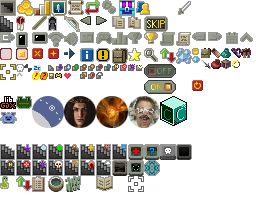
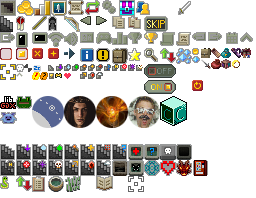
新增更多特殊图标

Changed region(s): [[0.625, 0.7879, 0.8125, 0.9091]]

diff --git a/core/src/main/java/com/shatteredpixel/shatteredpixeldungeon/journal/Notes.java b/core/src/main/java/com/shatteredpixel/shatteredpixeldungeon/journal/Notes.java
@@ -31,11 +31,13 @@ import com.shatteredpixel.shatteredpixeldungeon.actors.blobs.WaterOfOil;
 import com.shatteredpixel.shatteredpixeldungeon.actors.blobs.WaterOfTransmutation;
 import com.shatteredpixel.shatteredpixeldungeon.actors.mobs.DemonSpawner;
 import com.shatteredpixel.shatteredpixeldungeon.actors.mobs.Statue;
+import com.shatteredpixel.shatteredpixeldungeon.actors.mobs.npcs.AutoShopReBot;
 import com.shatteredpixel.shatteredpixeldungeon.actors.mobs.npcs.Blacksmith;
 import com.shatteredpixel.shatteredpixeldungeon.actors.mobs.npcs.DragonGirlBlue;
 import com.shatteredpixel.shatteredpixeldungeon.actors.mobs.npcs.Ghost;
 import com.shatteredpixel.shatteredpixeldungeon.actors.mobs.npcs.Imp;
 import com.shatteredpixel.shatteredpixeldungeon.actors.mobs.npcs.ImpShopkeeper;
+import com.shatteredpixel.shatteredpixeldungeon.actors.mobs.npcs.PinkGhost;
 import com.shatteredpixel.shatteredpixeldungeon.actors.mobs.npcs.RatKing;
 import com.shatteredpixel.shatteredpixeldungeon.actors.mobs.npcs.Shopkeeper;
 import com.shatteredpixel.shatteredpixeldungeon.actors.mobs.npcs.Wandmaker;
@@ -43,6 +45,7 @@ import com.shatteredpixel.shatteredpixeldungeon.items.Generator;
 import com.shatteredpixel.shatteredpixeldungeon.items.Item;
 import com.shatteredpixel.shatteredpixeldungeon.items.keys.Key;
 import com.shatteredpixel.shatteredpixeldungeon.levels.Level;
+import com.shatteredpixel.shatteredpixeldungeon.levels.rooms.quest.DragonCaveRoom;
 import com.shatteredpixel.shatteredpixeldungeon.levels.rooms.special.WeakFloorRoom;
 import com.shatteredpixel.shatteredpixeldungeon.messages.Messages;
 import com.shatteredpixel.shatteredpixeldungeon.scenes.PixelScene;
@@ -153,6 +156,9 @@ public class Notes {
 		REDAGRON,
 
 		SMALLB,
+		HEART,
+		FIRE_DRAGON,
+		AUTO_SHOP,
 		DEMON_SPAWNER;
 	}
 
@@ -211,6 +217,13 @@ public class Notes {
 
 				case SMALLB:
 					return Icons.MAGIC_DREAM.get();
+
+				case HEART:
+					return Icons.HEART.get();
+				case FIRE_DRAGON:
+					return Icons.FIRE_DRAGON.get();
+				case AUTO_SHOP:
+					return Icons.AUTO_SHOP.get();
 
 				case SHOP:
 					if (depth == 20)    return new Image(new ImpSprite());
@@ -300,6 +313,12 @@ public class Notes {
 				case WELL_OF_TRANSMUTATION: return Messages.get(WaterOfTransmutation.class, "desc");
 				case WELL_OF_OIL: return Messages.get(WaterOfOil.class, "desc");
 				case SMALLB: return Messages.get(DragonGirlBlue.class, "desc");
+
+				case HEART: return  Messages.get(PinkGhost.class, "desc");
+
+				case FIRE_DRAGON: return Messages.get(DragonCaveRoom.DreamcatcherMaker.class,"desc");
+
+				case AUTO_SHOP: return Messages.get(AutoShopReBot.class,"desc");
 
 				case SACRIFICIAL_FIRE:  return Messages.get(SacrificialFire.class, "desc");
 				case STATUE:            return Messages.get(Statue.class, "desc");

diff --git a/core/src/main/java/com/shatteredpixel/shatteredpixeldungeon/actors/mobs/npcs/PinkGhost.java b/core/src/main/java/com/shatteredpixel/shatteredpixeldungeon/actors/mobs/npcs/PinkGhost.java
@@ -7,6 +7,7 @@ import com.shatteredpixel.shatteredpixeldungeon.Dungeon;
 import com.shatteredpixel.shatteredpixeldungeon.ShatteredPixelDungeon;
 import com.shatteredpixel.shatteredpixeldungeon.Statistics;
 import com.shatteredpixel.shatteredpixeldungeon.actors.Char;
+import com.shatteredpixel.shatteredpixeldungeon.actors.buffs.AscensionChallenge;
 import com.shatteredpixel.shatteredpixeldungeon.items.Generator;
 import com.shatteredpixel.shatteredpixeldungeon.items.armor.Armor;
 import com.shatteredpixel.shatteredpixeldungeon.items.artifacts.TimekeepersHourglass;
@@ -15,6 +16,7 @@ import com.shatteredpixel.shatteredpixeldungeon.items.quest.Red;
 import com.shatteredpixel.shatteredpixeldungeon.items.scrolls.exotic.ScrollOfRoseShiled;
 import com.shatteredpixel.shatteredpixeldungeon.items.weapon.Weapon;
 import com.shatteredpixel.shatteredpixeldungeon.items.weapon.melee.FiveRen;
+import com.shatteredpixel.shatteredpixeldungeon.journal.Notes;
 import com.shatteredpixel.shatteredpixeldungeon.levels.features.LevelTransition;
 import com.shatteredpixel.shatteredpixeldungeon.messages.Messages;
 import com.shatteredpixel.shatteredpixeldungeon.plants.Swiftthistle;
@@ -60,6 +62,22 @@ public class PinkGhost extends NTNPC {
         secnod = bundle.getBoolean(SECNOD);
         rd = bundle.getBoolean(RD);
         sd = bundle.getBoolean(SD);
+    }
+
+    @Override
+    protected boolean act() {
+        if (hero.buff(AscensionChallenge.class) != null){
+            die(null);
+            Notes.remove( Notes.Landmark.HEART);
+            return true;
+        }
+        if (Dungeon.level.visited[pos]){
+            Notes.add( Notes.Landmark.HEART );
+        }
+        throwItem();
+        sprite.turnTo( pos, hero.pos );
+        spend( TICK );
+        return super.act();
     }
 
     {

diff --git a/core/src/main/java/com/shatteredpixel/shatteredpixeldungeon/levels/rooms/quest/DragonCaveRoom.java b/core/src/main/java/com/shatteredpixel/shatteredpixeldungeon/levels/rooms/quest/DragonCaveRoom.java
@@ -8,11 +8,11 @@ import static com.shatteredpixel.shatteredpixeldungeon.levels.Terrain.WATER;
 
 import com.shatteredpixel.shatteredpixeldungeon.Assets;
 import com.shatteredpixel.shatteredpixeldungeon.Dungeon;
+import com.shatteredpixel.shatteredpixeldungeon.journal.Notes;
 import com.shatteredpixel.shatteredpixeldungeon.levels.Level;
 import com.shatteredpixel.shatteredpixeldungeon.levels.Terrain;
 import com.shatteredpixel.shatteredpixeldungeon.levels.features.LevelTransition;
 import com.shatteredpixel.shatteredpixeldungeon.levels.painters.Painter;
-import com.shatteredpixel.shatteredpixeldungeon.levels.rooms.Room;
 import com.shatteredpixel.shatteredpixeldungeon.levels.rooms.special.SpecialRoom;
 import com.shatteredpixel.shatteredpixeldungeon.messages.Messages;
 import com.shatteredpixel.shatteredpixeldungeon.tiles.CustomTilemap;
@@ -41,15 +41,12 @@ public class DragonCaveRoom extends SpecialRoom {
         return 13;
     }
 
-	@Override
-	public boolean canMerge(Level l, Room other, Point p, int mergeTerrain) {
-		return false;
-	}
-
     @Override
     public void paint(Level level) {
         Point center = new Point((left + right) / 2, (top + bottom) / 2);
         int DragonPos = (top + 6) * level.width() + left + 6;
+
+        Notes.add( Notes.Landmark.FIRE_DRAGON );
 
         DreamcatcherMaker vis = new DreamcatcherMaker();
         Point c = center();

diff --git a/core/src/main/java/com/shatteredpixel/shatteredpixeldungeon/levels/RegularLevel.java b/core/src/main/java/com/shatteredpixel/shatteredpixeldungeon/levels/RegularLevel.java
@@ -666,9 +666,6 @@ public abstract class RegularLevel extends Level {
 	
 	@Override
 	protected void createItems() {
-
-
-
 		// drops 3/4/5 items 60%/30%/10% of the time
 		int nItems = 3 + Random.chances(new float[]{6, 3, 1});
 
@@ -976,11 +973,10 @@ public abstract class RegularLevel extends Level {
 					Trap t = traps.get(pos);
 					
 					//items cannot spawn on traps which destroy items
-					if (t == null ||
-							! (t instanceof BurningTrap || t instanceof BlazingTrap
-							|| t instanceof ChillingTrap || t instanceof FrostTrap
-							|| t instanceof ExplosiveTrap || t instanceof DisintegrationTrap
-							|| t instanceof PitfallTrap)) {
+					if (!(t instanceof BurningTrap || t instanceof BlazingTrap
+                            || t instanceof ChillingTrap || t instanceof FrostTrap
+                            || t instanceof ExplosiveTrap || t instanceof DisintegrationTrap
+                            || t instanceof PitfallTrap)) {
 						
 						return pos;
 					}

diff --git a/core/src/main/java/com/shatteredpixel/shatteredpixeldungeon/levels/rooms/special/AutoShopRoom.java b/core/src/main/java/com/shatteredpixel/shatteredpixeldungeon/levels/rooms/special/AutoShopRoom.java
@@ -14,6 +14,7 @@ import com.shatteredpixel.shatteredpixeldungeon.items.Item;
 import com.shatteredpixel.shatteredpixeldungeon.items.keys.BlackKey;
 import com.shatteredpixel.shatteredpixeldungeon.items.wands.Wand;
 import com.shatteredpixel.shatteredpixeldungeon.items.weapon.Weapon;
+import com.shatteredpixel.shatteredpixeldungeon.journal.Notes;
 import com.shatteredpixel.shatteredpixeldungeon.levels.Level;
 import com.shatteredpixel.shatteredpixeldungeon.levels.painters.Painter;
 import com.shatteredpixel.shatteredpixeldungeon.levels.rooms.Room;
@@ -79,6 +80,8 @@ public class AutoShopRoom extends SpecialRoom {
         if(holiday == HWEENX || holiday == XMASX|| Dungeon.isChallenged(EXSG)) {
             placeShopkeeper(level);
         }
+
+        Notes.add( Notes.Landmark.AUTO_SHOP );
 
         for (Room.Door door : this.connected.values()) {
             door.set(Door.Type.REGULAR);

diff --git a/core/src/main/java/com/shatteredpixel/shatteredpixeldungeon/ui/Icons.java b/core/src/main/java/com/shatteredpixel/shatteredpixeldungeon/ui/Icons.java
@@ -203,7 +203,11 @@ public enum Icons {
 
 	TRA_WELL,
 	OIL_WELL,
-	MAGIC_DREAM;
+	MAGIC_DREAM,
+
+	HEART,
+	FIRE_DRAGON,
+	AUTO_SHOP;
 
 	public Image get() {
 		return get( this );
@@ -608,7 +612,15 @@ public enum Icons {
 			case MAGIC_DREAM:
 				icon.frame( icon.texture.uvRectBySize( 144, 160, 16, 16 ) );
 				break;
-
+			case HEART:
+				icon.frame( icon.texture.uvRectBySize( 160, 160, 16, 16 ) );
+				break;
+			case FIRE_DRAGON:
+				icon.frame( icon.texture.uvRectBySize( 176, 160, 16, 16 ) );
+				break;
+			case AUTO_SHOP:
+				icon.frame( icon.texture.uvRectBySize( 192, 160, 16, 16 ) );
+				break;
 		}
 		return icon;
 	}

diff --git a/core/src/main/java/com/shatteredpixel/shatteredpixeldungeon/ui/changelist/mlpd/vM0_7_X_Changes.java b/core/src/main/java/com/shatteredpixel/shatteredpixeldungeon/ui/changelist/mlpd/vM0_7_X_Changes.java
@@ -133,6 +133,9 @@ public class vM0_7_X_Changes {
         changes.hardlight(Window.CYELLOW);
         changeInfos.add(changes);
 
+        changes.addButton(new ChangeButton(Icons.get(Icons.HEART), ("特殊地形图标系统"),
+                ("现在新增了更多特殊地形的图标：心红空间，火龙巢穴，食物售货机")));
+
         changes.addButton(new ChangeButton(Icons.get(Icons.NEWS), ("新兑换码：ChinaBirthDay"),
                 ("进入游戏通过落白商店 或者 游戏菜单 获取奖励！\n\n有效期至：2025年10月7日1：05前。")));
 
